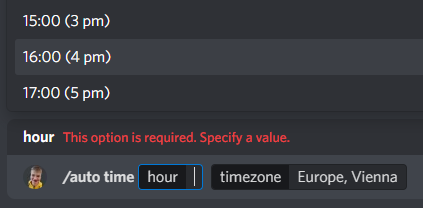
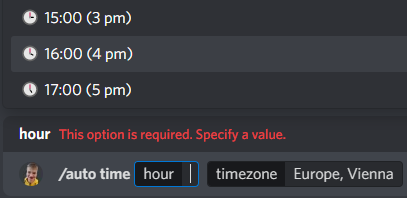
steam games playtime event factory

diff --git a/auto_events/steamGamePlaytimeFactory.js b/auto_events/steamGamePlaytimeFactory.js
@@ -1,0 +1,121 @@
+const { userMention } = require('discord.js');
+const { EmbedBuilder } = require("@discordjs/builders");
+const { zip, resizeArray } = require("../misc/shared");
+
+// @note:
+// {
+//     "response": {
+//         "game_count": 1,
+//         "games": [
+//             {
+//                 "appid": 252950,
+//                 "name": "Rocket League",
+//                 "playtime_2weeks": 343,
+//                 "playtime_forever": 56274,
+//                 "img_icon_url": "9ad6dd3d173523354385955b5fb2af87639c4163",
+//                 "has_community_visible_stats": true,
+//                 "playtime_windows_forever": 52511,
+//                 "playtime_mac_forever": 0,
+//                 "playtime_linux_forever": 0,
+//                 "rtime_last_played": 1666324573
+//             }
+//         ]
+//     }
+// }
+async function getGamesData(steamId, steamAppIds = [730, 252950]) {
+    const inputJson = {
+        steamid: steamId,
+        include_appinfo: true,
+        include_played_free_games: true,
+        appids_filter: steamAppIds,
+    };
+    const encoded = encodeURIComponent(JSON.stringify(inputJson));
+    const response = await fetch(`https://api.steampowered.com/IPlayerService/GetOwnedGames/v0001/?key=${process.env.STEAM_WEBAPI_KEY}&format=json&input_json=${encoded}`);
+    return await response.json();
+}
+async function getGameData(steamId, appId) {
+    return (await getGamesData(steamId, [appId])).response.games[0];
+}
+function steamGamePlayTimeFactory(appId, embedSideColor) {
+    return {
+        get: async function (steamId) {
+            return await getGameData(steamId, appId);
+        },
+
+        process: function (guild, channel, fulfilled, interaction = null) {
+            const ok = fulfilled
+                .filter(value => value.playtime_2weeks > 0)
+                .sort((a, b) => b.playtime_2weeks - a.playtime_2weeks);
+
+            if (ok.length < 1) return;
+
+            if (!interaction) {
+                channel.client.db.awardGuildDiscipline(guild.id, 'medal-1st', ok[0].userId, 1);
+                if (ok.length >= 2) channel.client.db.awardGuildDiscipline(guild.id, 'medal-2nd', ok[1].userId, 1);
+                if (ok.length >= 3) channel.client.db.awardGuildDiscipline(guild.id, 'medal-3rd', ok[2].userId, 1);
+            }
+
+            const game = ok[0];
+            const gameIconUrl = `http://media.steampowered.com/steamcommunity/public/images/apps/${game.appid}/${game.img_icon_url}.jpg`;
+            const oks = ok.slice(0, Math.min(ok.length, 8));
+            const names = { name: 'Player', value: oks.map(value => userMention(value.userId)).join('\n'), inline: true };
+            const time = { name: '2-Week Playtime', value: oks.map(value => `${(value.playtime_2weeks / 60).toFixed(1)}h`).join('\n'), inline: true };
+
+            const rewardArray = ['🥇', '🥈', '🥉'];
+            resizeArray(rewardArray, oks.length, '');
+            const rewards = { name: 'Reward', value: rewardArray.join('\n'), inline: true };
+
+            const embed = new EmbedBuilder()
+                .setTitle(game.name)
+                .setDescription('To participate use \`/set user steam\`')
+                .setURL('https://www.youtube.com/watch?v=dQw4w9WgXcQ')
+                .setColor(embedSideColor)
+                .setThumbnail(gameIconUrl)
+                .addFields(names)
+                .addFields(time)
+                .addFields(rewards)
+                .setTimestamp()
+                .setFooter({ text: '© kokles GmbH', iconURL: process.env.BOT_ICON_URL });
+
+            const message = { embeds: [embed], ephemeral: true };
+
+            if (interaction) {
+                interaction.reply(message)
+            } else {
+                channel.send(message);
+            }
+        },
+    };
+}
+
+module.exports = {
+    factory(appId, embedSideColor) {
+        return async function (client, guildId, job, interaction = null) {
+            const guild = await client.guilds.fetch(guildId);
+            const channel = await guild.channels.fetch(job.channelId);
+
+            const userIds = [];
+            const requests = [];
+            const steamIds = await client.db.getUserSteamIds(guildId);
+
+            const action = steamGamePlayTimeFactory(appId, embedSideColor);
+
+            for (const userId in steamIds) {
+                userIds.push(userId);
+                requests.push(action.get(steamIds[userId]));
+            }
+
+            const results = await Promise.allSettled(requests);
+
+            const fulfilled = zip(results, userIds)
+                .filter(value => value[0].status === 'fulfilled')
+                .map(value => {
+                    const result = value[0].value;
+                    result.userId = value[1];
+                    return result;
+                });
+
+            action.process(guild, channel, fulfilled, interaction);
+        };
+    },
+}

diff --git a/commands/set.js b/commands/set.js
@@ -1,22 +1,5 @@
 const { SlashCommandBuilder, PermissionFlagsBits, EmbedBuilder, userMention } = require('discord.js');
 
-async function searchSteamId(query) {
-    const response = await fetch(`${process.env.CSGO_API_URL}/search?platform=steam&query=${query}`, {
-        headers: {
-            'TRN-Api-Key': process.env.CSGO_API_KEY,
-            'Accept': 'application/json',
-            'Accept-Encoding': 'gzip',
-        },
-    });
-
-    const obj = await response.json();
-    if (obj.data.length > 0) {
-        return obj.data[0].platformUserId;
-    }
-
-    return null;
-}
-
 async function getSteamPlayerSummary(steamId) {
     const response = await fetch(`https://api.steampowered.com/ISteamUser/GetPlayerSummaries/v0002/?key=${process.env.STEAM_WEBAPI_KEY}&steamids=${steamId}`);
     const obj = await response.json();
@@ -55,25 +38,19 @@ module.exports = {
         if (subcommandGroup === 'user') {
             if (subcommand === 'steam') {
                 const member = interaction.options.getUser('member');
-                const id = interaction.options.getString('id');
-
-                const steamId = await searchSteamId(id);
-                if (!steamId) {
-                    return interaction.reply({ content: `Steam ID was not found for '${id}'.`, ephemeral: true });
-                }
-
-                interaction.client.db.setUserSteamId(interaction.guildId, member.id, steamId);
+                const steamId = interaction.options.getString('id');
 
                 const player = await getSteamPlayerSummary(steamId);
                 if (!player) {
-                    return interaction.reply({ content: `Couldn't retrieve data from Steam WebAPI for Steam ID '${steamId}'.`, ephemeral: true });
+                    return interaction.reply({ content: `Couldn't retrieve data from Steam Web API for Steam ID '${steamId}'.`, ephemeral: true });
                 }
+
+                interaction.client.db.setUserSteamId(interaction.guildId, member.id, steamId);
 
                 const embed = new EmbedBuilder()
                     .setTitle(`${player.personaname} :flag_${player.loccountrycode.toLowerCase()}:`)
                     .setDescription(`Linked for ${userMention(member.id)}`)
                     .setURL(player.profileurl)
-                    //.addFields({ name: 'Steam ID', value: player.steamid })
                     .setThumbnail(player.avatarfull)
 
                 return interaction.reply({ embeds: [embed], ephemeral: false });

diff --git a/commands/auto.js b/commands/auto.js
@@ -28,15 +28,22 @@ function americanize(hour) {
     }
 }
 
+function clockEmoji(hour) {
+    const emoji = ['🕛', '🕐', '🕑', '🕒', '🕓', '🕔', '🕕', '🕖', '🕗', '🕘', '🕙', '🕚'];
+    return emoji[hour % 12];
+}
+
 function getTimeOptions() {
-    return [...Array(24).keys()].map((_, i) => { return { name: `${i}:00  (${americanize(i)})`, value: i } });
+    return [...Array(24).keys()].map((_, i) => { return { name: `${clockEmoji(i)} ${i}:00  (${americanize(i)})`, value: i } });
 }
 
 function getEventOptions() {
     return [
         { name: 'All', value: 'all' },
         { name: 'Necyklopedia Fakty (🇸🇰/🇨🇿)', value: 'necyklopedia' },
-        { name: 'Counterstrike Stats', value: 'cs-stats' },
+        { name: 'CS:GO 🎮⏱', value: 'csgo-playtime' },
+        { name: 'Rocket League 🎮⏱', value: 'rl-playtime' },
+        { name: 'Forza Horizon 5 🎮⏱', value: 'fh5-playtime' },
         // { name: 'Piggy Leaderboards', value: 'piggy' },
     ];
 }
@@ -193,7 +200,7 @@ module.exports = {
             const event = interaction.options.getString('event');
             const state = subcommand === 'enable';
 
-            if (event === 'all') {
+            if (!event || event === 'all') {
                 getEventOptions()
                     .map(value => value.value)
                     .filter(value => value !== 'all')

diff --git a/auto_events/fh5-playtime.js b/auto_events/fh5-playtime.js
@@ -1,0 +1,5 @@
+const { factory } = require("./steamGamePlaytimeFactory");
+
+module.exports = {
+    execute: factory(1551360, 0xE72C83),
+}

diff --git a/auto_events/rl-playtime.js b/auto_events/rl-playtime.js
@@ -1,0 +1,5 @@
+const { factory } = require("./steamGamePlaytimeFactory");
+
+module.exports = {
+    execute: factory(252950, 0x009dff),
+}

diff --git a/auto_events/csgo-playtime.js b/auto_events/csgo-playtime.js
@@ -1,0 +1,5 @@
+const { factory } = require("./steamGamePlaytimeFactory");
+
+module.exports = {
+    execute: factory(730, 0xff9100),
+}

diff --git a/README.md b/README.md
@@ -61,6 +61,7 @@ Play sounds!
 ### Integrated APIs
 * [Rest Countries](https://gitlab.com/amatos/rest-countries)
 * [Steam Web API](https://steamcommunity.com/dev)
+* [LoL Esports API](https://lolesports.com/)
 
 ## Tech
 Cloud database, docker image, app sharding.
